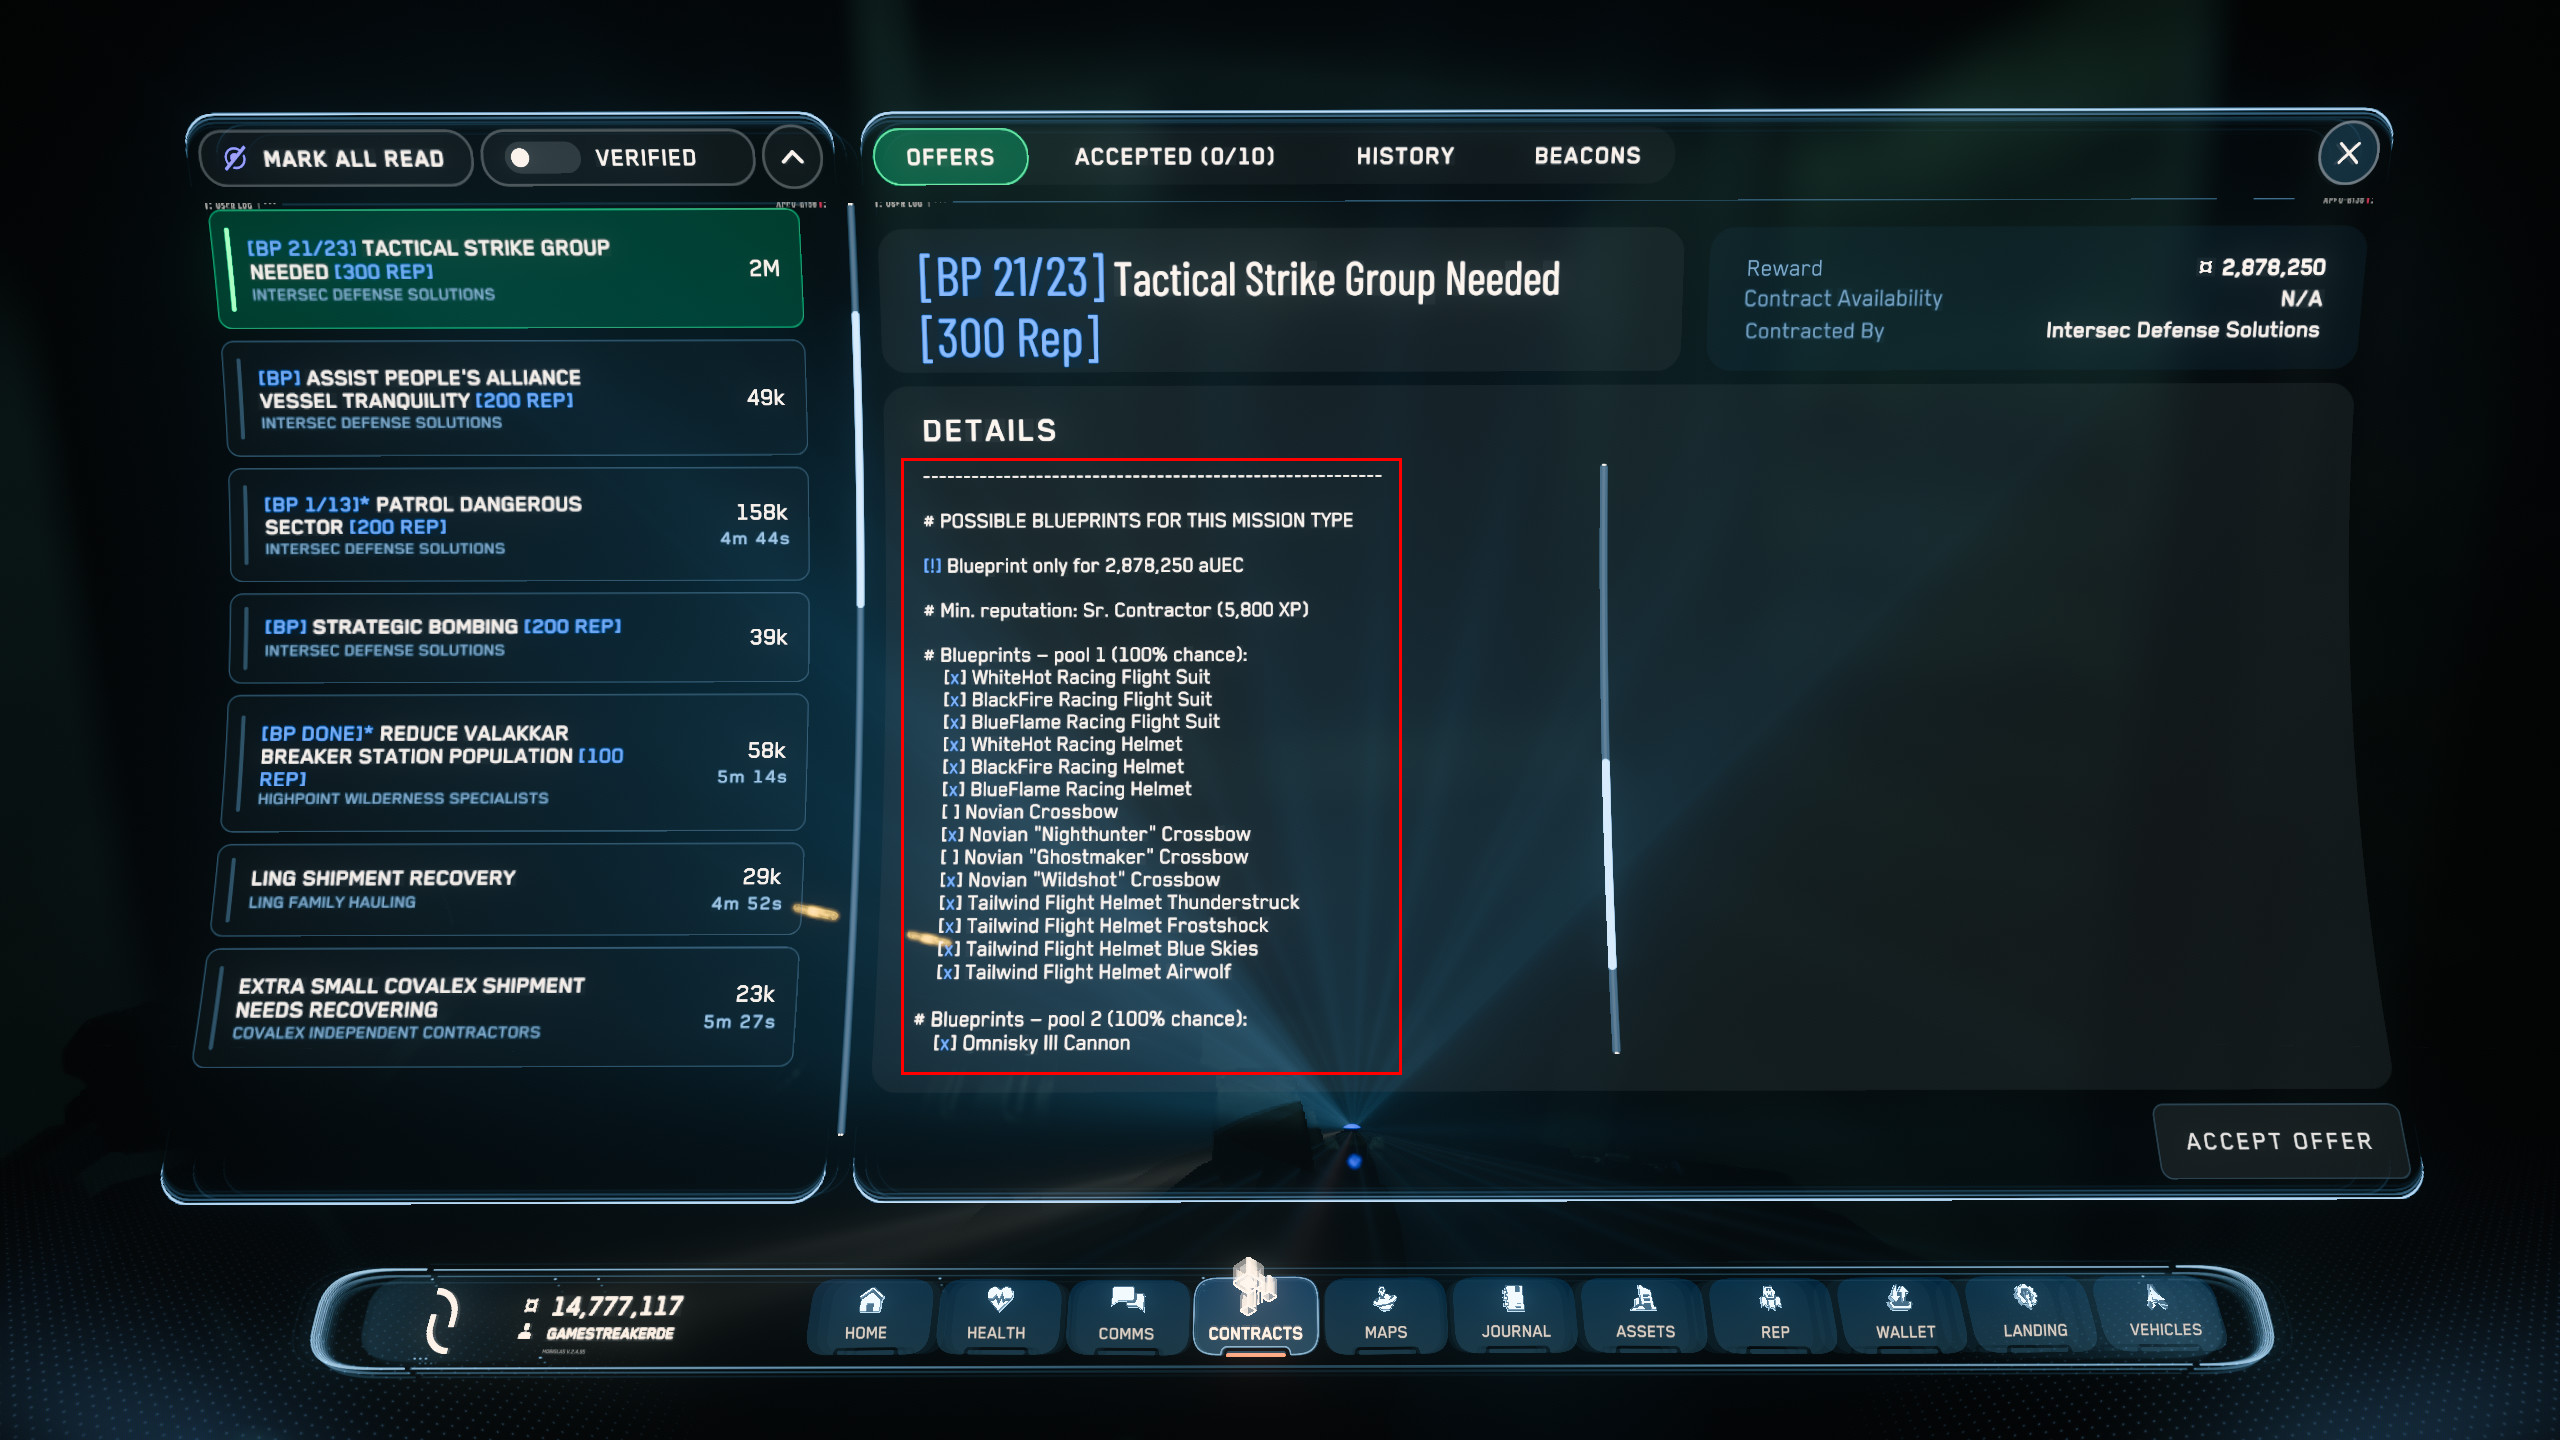
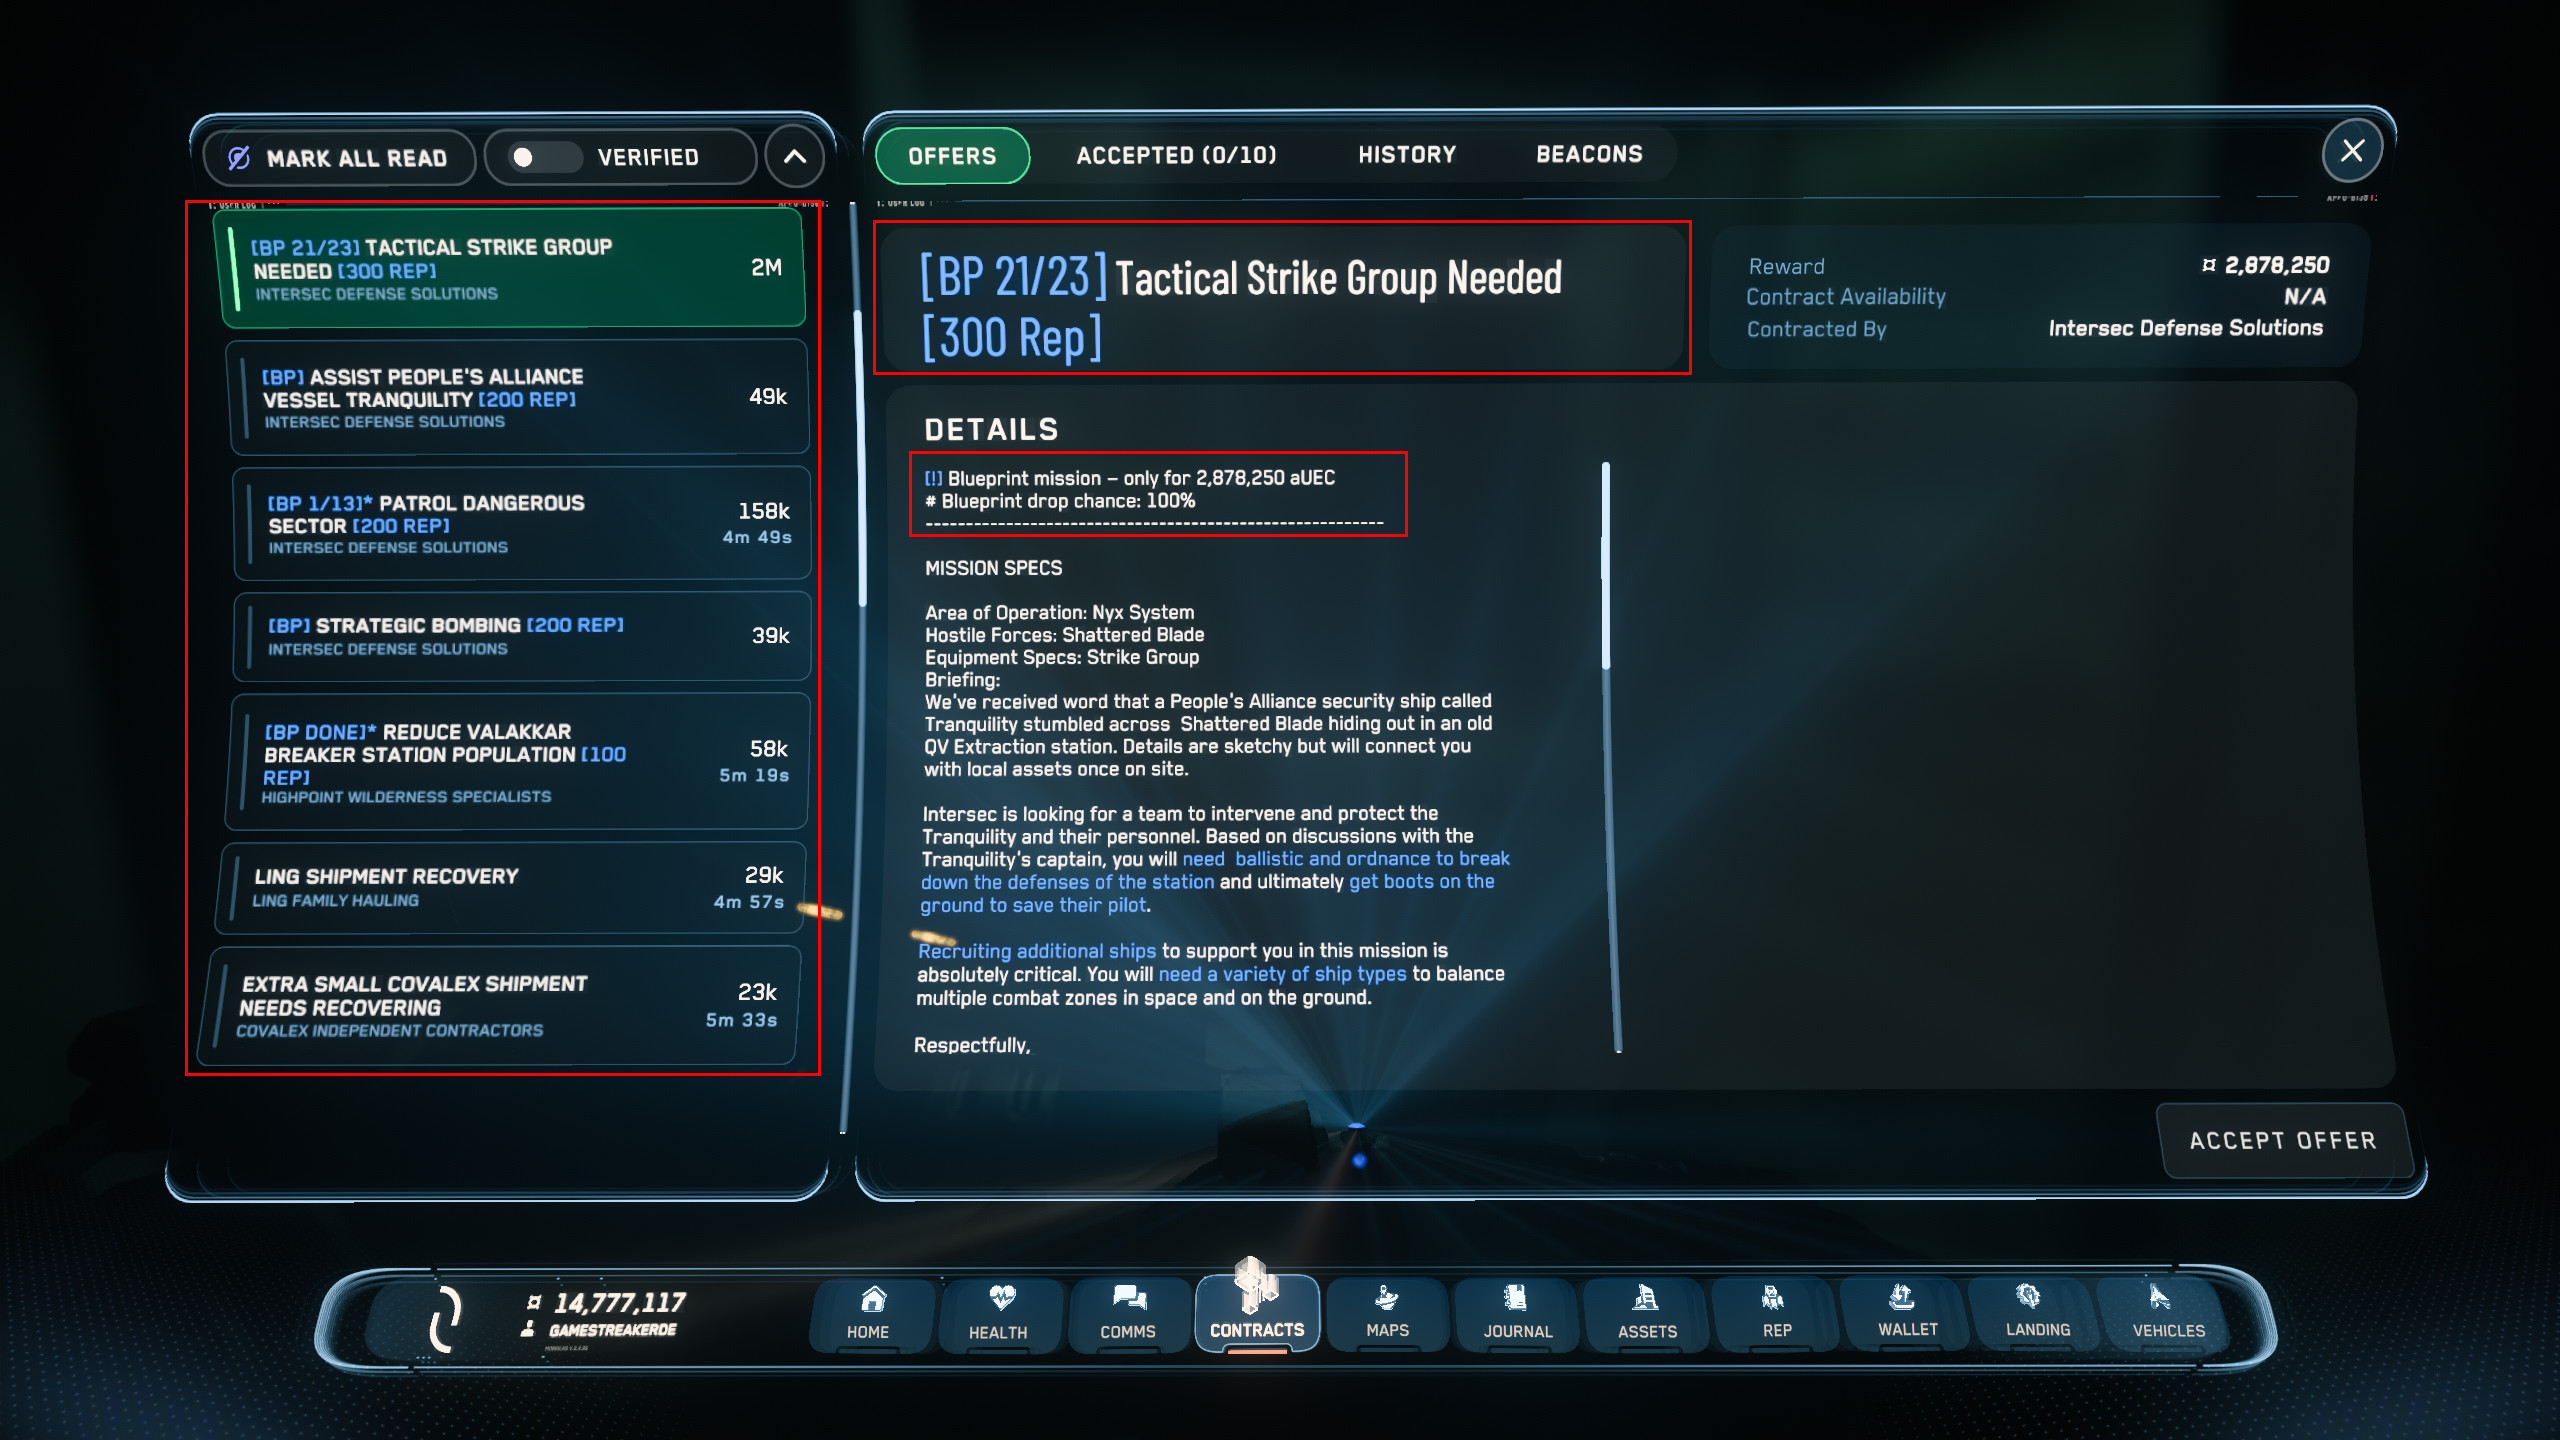
docs(readme): show both mission annotations side by side (price+dropchance, blueprint pool)

diff --git a/README.md b/README.md
@@ -51,9 +51,9 @@
 
 <sub>In-game item names carry size, grade &amp; type (FR-66 → "FR-66 (S1 A Military)") — in tooltips, the freight manager and inventory detail panels. · Item-Namen tragen Größe, Grade &amp; Typ (FR-66 → „FR-66 (S1 A Military)") — in Tooltips, im Freight Manager und in Inventar-Detail-Panels.</sub>
 
-<img src="assets/ingame-mission-pool.png" alt="In-game contracts: [BP] markers in the list + full blueprint pool with ownership markers in the detail view" width="82%">
+<img src="assets/ingame-mission-pool.png" alt="In-game mission detail with price and drop chance injected before the briefing" width="49%"> <img src="assets/ingame-bp-list.png" alt="In-game mission detail with the full blueprint pool list and [x]/[ ] ownership markers" width="49%">
 
-<sub>Contract list shows [BP] / [BP K/N] / [BP DONE] markers at a glance, mission details get the full blueprint pool with [x]/[ ] ownership. · Die Contracts-Liste zeigt auf einen Blick [BP] / [BP K/N] / [BP DONE] Marker, Mission-Details bekommen den kompletten Blueprint-Pool mit [x]/[ ] Besitzstand.</sub>
+<sub>Contract list shows [BP] / [BP K/N] / [BP DONE] markers at a glance; mission details get blueprint price + drop chance up front and the full blueprint pool with [x]/[ ] ownership. · Die Contracts-Liste zeigt auf einen Blick [BP] / [BP K/N] / [BP DONE] Marker; Mission-Details bekommen Bauplan-Preis + Drop-Chance vorab plus den kompletten Blueprint-Pool mit [x]/[ ] Besitzstand.</sub>
 
 </div>
 